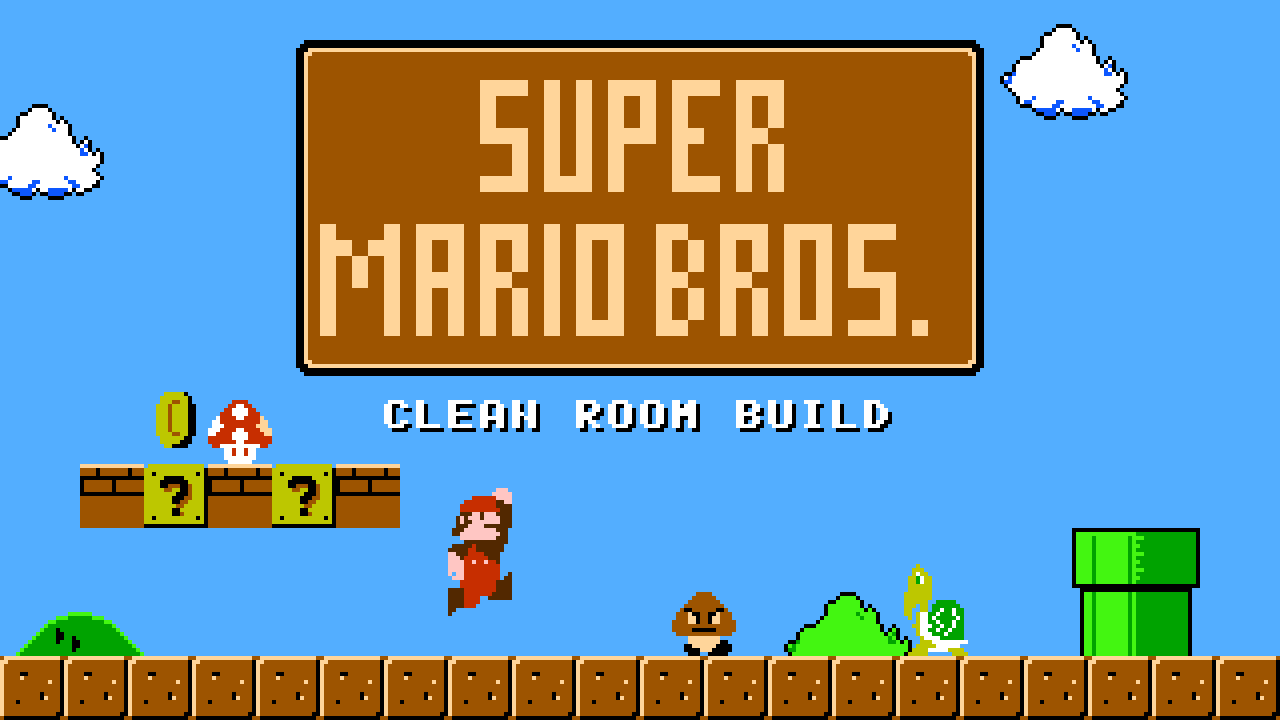
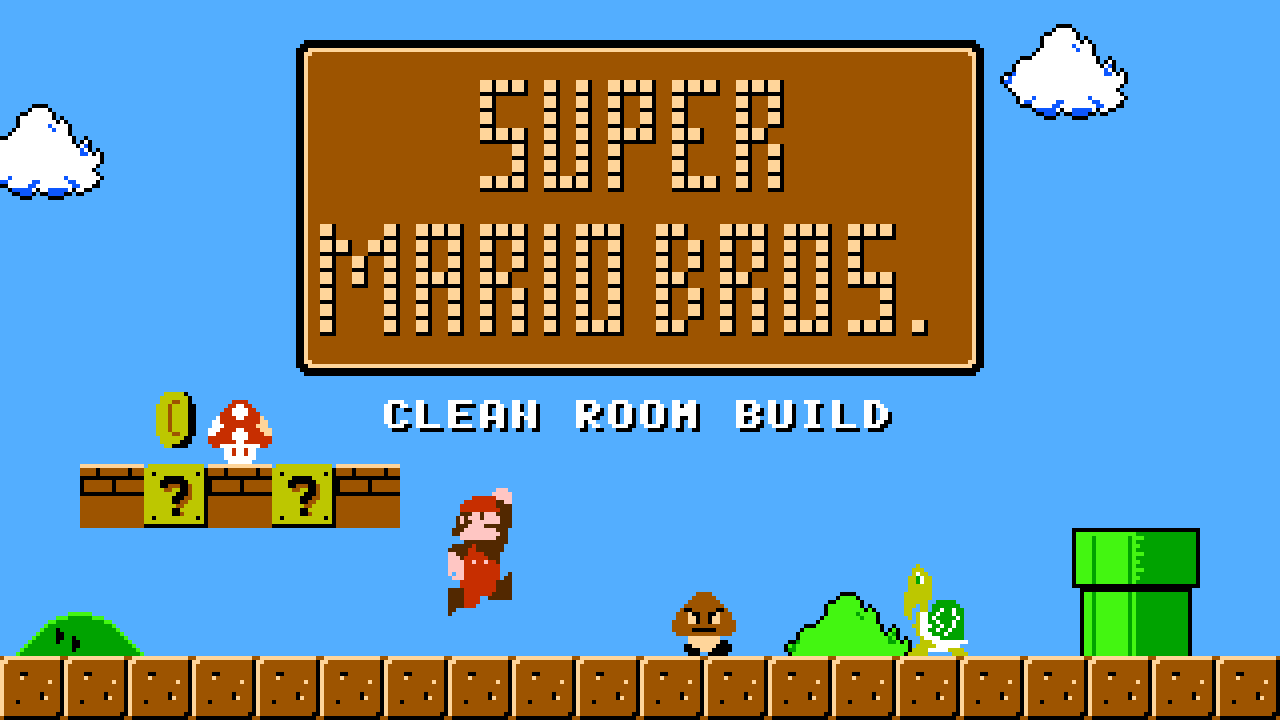
Studded title letters, poster refresh

Changed region(s): [[0.25, 0.3056, 0.7188, 0.4889], [0.375, 0.0917, 0.625, 0.275]]

diff --git a/games/smb/title.py b/games/smb/title.py
@@ -34,6 +34,8 @@ def tiles():
         for b, (y, x) in enumerate([(0, 0), (0, 4), (4, 0), (4, 4)]):
             if m >> b & 1:
                 t[y:y + 4, x:x + 4] = INK
+                t[y + 3, x:x + 4] = EDGE            # each cell is a small stud: dark lower and right edge
+                t[y:y + 4, x + 3] = EDGE
         out[QUAD[m]] = t
     # frame: 2 px black line with a sand highlight inside it, rounded corners
     def edge(side):

diff --git a/STATUS.md b/STATUS.md
@@ -48,7 +48,8 @@ Update with `sh tools/publish.sh push "message"` (regenerates, assembles, refuse
 - Bowser: halves are placed by code (rear 16 px behind, 8 px lower); `python -m games.smb.bowser_view out.png` shows
   him assembled. Drawn and checked in that preview, not yet seen in the running game (needs a play to the end of x-4).
 - Shells: the tables are drawn with a vertical flip; art was laid out for that but not yet seen in the running game.
-- A finer title logo (letters with a drop shadow).
+- Title letters are now built from small studs (dark lower/right edge per cell); a hand-lettered logo would need
+  more than the 39 free tiles.
 
 ## For the morning
 - Look at: the live page, `poster.png`, and `python -m games.smb.sheet png sheet.png` for all art at once.
